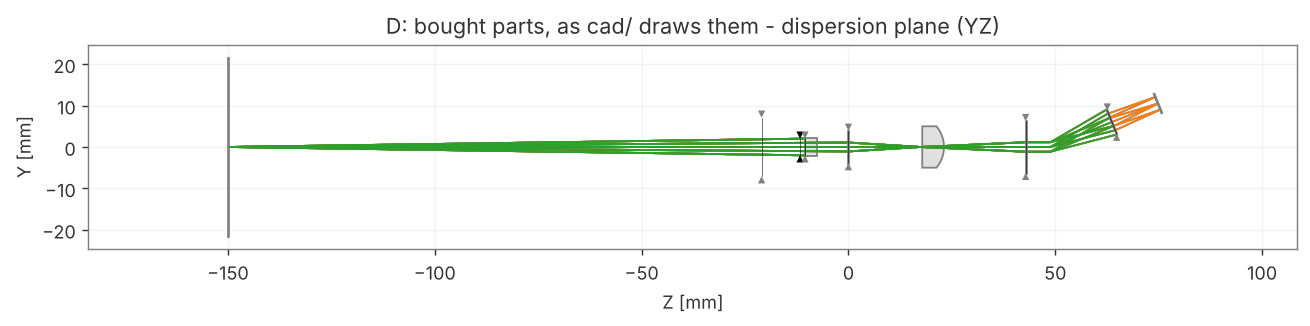
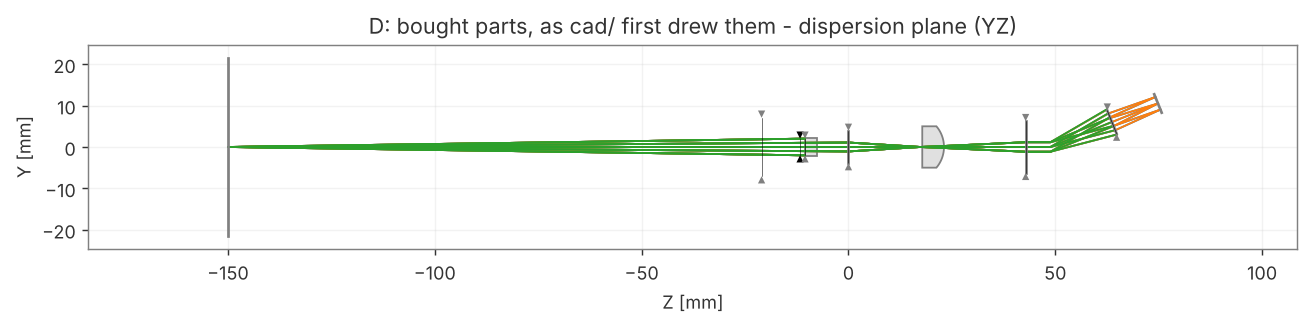
Say that cad/ builds config E now
PR #42 fitted the head to layout E, so D is how cad/ first drew the bought parts. The parts list and the model's labels now say so, and the parts list points at cad/optics_as_built.txt for the head as drawn.

Changed region(s): [[0.2748, 0.0307, 0.7939, 0.1227]]

diff --git a/optics/spectrograph_model.py b/optics/spectrograph_model.py
@@ -19,9 +19,10 @@ Configs A to C are the design study. D and E use the parts that were bought,
 where the vendor publishes enough to model them: the Edmund #49-840 field lens
 as real N-BK7 surfaces, the 3 mm GG-495 filter as a glass plate, the printed
 stop and the 20 x 20 mm scan mirror as apertures, and the CIL161's 15.6 mm focal
-length. D places them as cad/ draws them; E flips the field lens and moves the
-stop, the two changes the trace argues for. For D and E the script also traces
-the slit image width, the band that lands on the sensor and the spot sizes.
+length. D places them as cad/ first drew them; E flips the field lens and moves
+the stop, the two changes the trace argues for, and is what cad/ builds now. For
+D and E the script also traces the slit image width, the band that lands on the
+sensor and the spot sizes.
 
 Conventions: z is the optical axis, y is the dispersion direction, x is along
 the slit (the spatial / scan-line direction). Units are mm; wavelengths in um.
@@ -334,14 +335,15 @@ CONFIGS = [
     # #49-840 field lens (N-BK7, R 7.75, CT 5.25) behind 0.38 mm blades, LN016
     # collimator (12.5 mm aperture) focused on the slit, CIL122 camera lens.
     # Stop and lens positions are cad/ estimates until the lenses are measured.
-    Bought("D: bought parts, as cad/ draws them", f_cam=12.0, d_cam=6.0, f_field=15.0,
+    Bought("D: bought parts, as cad/ first drew them", f_cam=12.0, d_cam=6.0, f_field=15.0,
            coll_to_grating=6.0, grating_to_cam=16.03, f_obj=15.6, fno_obj=3.9, d_coll=12.5,
            field_r=7.75, field_ct=5.25, field_flat_first=True, field_gap=0.43, refocus=True,
            stop_ahead=11.7, stop_t=1.2, d_obj=7.8, filter_t=3.0, filter_ahead=10.5,
            mirror_ahead=21.0, mirror_w=20.0),
     # D with two changes: the field lens turned round (convex face toward the
     # slit), and the stop moved from the front of the cap to a 0.6 mm washer on the
-    # lens's front face, with the filter in front of it.
+    # lens's front face, with the filter in front of it. cad/ builds this one:
+    # cad/rig/optics_link.py reads its stations from here by the tag "E".
     Bought("E: D with the field lens flipped and the stop on the lens", f_cam=12.0, d_cam=6.0,
            f_field=15.0, coll_to_grating=6.0, grating_to_cam=16.03, f_obj=15.6, fno_obj=3.9,
            d_coll=12.5, field_r=7.75, field_ct=5.25, field_flat_first=False, field_gap=0.43,

diff --git a/docs/parts_list_and_design.md b/docs/parts_list_and_design.md
@@ -1,6 +1,6 @@
 # Line-scan hyperspectral splatting: parts list and first-order design
 
-Status: parts list updated to what was bought, 2026-10-08. Nothing has arrived yet; the Amazon order and the long-pass filter are due Friday, October 9. Model: `optics/spectrograph_model.py` (Optiland 0.6.2): configs A to C are the design study with ideal lenses, and D and E use the bought parts. Results: `optics/model_output/results.txt` and the layout PNGs. Diagram: `docs/optical_train_v2.svg`.
+Status: parts list updated to what was bought, 2026-10-08. Nothing has arrived yet; the Amazon order and the long-pass filter are due Friday, October 9. Model: `optics/spectrograph_model.py` (Optiland 0.6.2): configs A to C are the design study with ideal lenses, and D and E use the bought parts; `cad/` builds E. Results: `optics/model_output/results.txt` and the layout PNGs. Diagram: `docs/optical_train_v2.svg`.
 
 Section 3 is the bill of materials for this build. Each row names the exact part that was bought or is already owned, with its part number or Amazon ASIN, what it cost and where it stands. The notes keep the earlier generic picks where they help someone building from scratch. Section 6 lists the orders with each listing's full name.
 
@@ -52,9 +52,9 @@ Scene coverage at 150 mm: the line is 42 mm long and 0.42 mm thick. About 150 li
 
 ### With the parts that were bought (configs D and E)
 
-Configs D and E trace the bought parts wherever the vendor publishes enough to model them. The Edmund field lens is real N-BK7 surfaces (R 7.75 mm, 5.25 mm thick). The GG-495 is a 3 mm glass plate, and the printed stop and the 20 × 20 mm mirror are apertures. The objective uses the CIL161's published 15.6 mm focal length. The M12 lenses are still ideal, since Commonlands and Arducam don't publish prescriptions. Both configs use the spacings `cad/` builds, with the grating 6 mm behind the collimator and the camera lens 16 mm behind the grating, and the collimator focused on the slit as the field lens shows it. D puts every part where `cad/` draws it today. E turns the field lens round and moves the stop onto the lens.
+Configs D and E trace the bought parts wherever the vendor publishes enough to model them. The Edmund field lens is real N-BK7 surfaces (R 7.75 mm, 5.25 mm thick). The GG-495 is a 3 mm glass plate, and the printed stop and the 20 × 20 mm mirror are apertures. The objective uses the CIL161's published 15.6 mm focal length. The M12 lenses are still ideal, since Commonlands and Arducam don't publish prescriptions. Both configs use the spacings `cad/` builds, with the grating 6 mm behind the collimator and the camera lens 16 mm behind the grating, and the collimator focused on the slit as the field lens shows it. D puts every part where `cad/` first drew it. E turns the field lens round and moves the stop onto the lens, and it is what `cad/` builds now.
 
-| Traced, ideal M12 lenses | D: as `cad/` draws it | E: field lens flipped, stop on the lens |
+| Traced, ideal M12 lenses | D: as `cad/` first drew it | E: field lens flipped, stop on the lens, as `cad/` builds it |
 |---|---|---|
 | Field lens faces the slit with its | flat side | curved side |
 | Slit as the collimator sees it | 1.35× as big, 0.42 mm further back | 1.03× as big, 1.76 mm further back |
@@ -78,7 +78,7 @@ What the trace decides, part by part:
 - **Spot sizes.** With ideal M12 lenses the only aberrations left come from the field lens. Spots are about 1 µm RMS at the line center and about 5 µm at the line ends, well under the 27 µm slit image. Real M12 lens blur isn't published and will likely dominate.
 - **Scan mirror.** A 20 × 20 mm piece clears the beam with room to spare: taking the mirror out of the model changes no number.
 
-`cad/` draws config D today. The changes for E (the slit block's lens seat, the collimator 1.8 mm further back with everything behind it, and the stop washer on the lens face) go to the CAD pass that follows Friday's measurements.
+`cad/` has built config E since October 9. The slit block seats the field lens curved side toward the blades, the collimator sits 26.76 mm behind the slit with everything behind it moved back to match, and a 0.6 mm washer with a 4 mm hole sits on the objective's front face. [`cad/optics_as_built.txt`](../cad/optics_as_built.txt) traces the head as drawn. There the washer sits 8.5 mm ahead of the objective's principal plane instead of E's 8.1 mm, which still gives 4.1 nm and 52% of the center's light at the line ends at 750 nm.
 
 ## 3. Parts list
 
@@ -93,7 +93,7 @@ Statuses as of 2026-10-08: **ordered** (paid, not arrived), **owned** (Ryan's ow
 | 3 | Objective, 16 mm f/2 | Commonlands **CIL161-F2.0-M12ANIR**, [IR Corrected 16mm M12 Lens, F/2.0, Without Filter](https://commonlands.com/products/ir-corrected-16mm-m12-lens-cil161) | $39.00 | ordered | Swapped from -M12A650 the same way. Commonlands lists its focal length as 15.6 mm. The 4 mm printed stop makes it f/3.9 (section 2). Avoid Arducam LN001, which has a 650 nm IR-cut filter. |
 | 4 | Collimator, 25 mm f/2 | Arducam **LN016** (lens M2025ZH01), 1/2" format, no IR filter, from [Arducam's store](https://www.arducam.com/m2025zh01-m12-mount-25mm-focal-length-camera-lens-mtv2520b-for-raspberry-pi-camera.html) | $17.99 | ordered, express | 17 × 21 mm, 12.5 mm aperture. Back focus isn't published, and a sibling Arducam 25 mm lens lists 5.2 mm, so measure it. |
 | 5 | M12 holders ×2 (objective, collimator) | uxcell 10-pack, 20 mm screw spacing, Amazon [B00R1J42T8](https://www.amazon.com/dp/B00R1J42T8) | $7.79 | ordered, due Oct 9 | Plastic and 14 mm tall: cut two down to the lens thread + 1 mm, as in step 1 of the [Assembly](../cad/README.md#assembly). From scratch: UCTRONICS U0756M10 metal holders. |
-| 6 | Field lens, f = 15 mm | Edmund Optics **#49-840**, [12.7 mm dia. × 15.0 mm FL, uncoated plano-convex](https://www.edmundoptics.com/p/127mm-dia-x-150mm-fl-uncoated-plano-convex-lens/10312/), N-BK7, CT 5.25 mm | $32.75 + $9.99 ground shipping | ordered, 1–7 business days | Turn its curved side toward the slit (section 2). Until the slit block is redrawn, `cad/` seats it flat side toward the blades. |
+| 6 | Field lens, f = 15 mm | Edmund Optics **#49-840**, [12.7 mm dia. × 15.0 mm FL, uncoated plano-convex](https://www.edmundoptics.com/p/127mm-dia-x-150mm-fl-uncoated-plano-convex-lens/10312/), N-BK7, CT 5.25 mm | $32.75 + $9.99 ground shipping | ordered, 1–7 business days | Turn its curved side toward the slit (section 2). The slit block in `cad/` holds it that way. |
 | 7 | Slit, 50 µm | 9 mm snap-off blades, 25-pack, Amazon [B0FKTN8WJZ](https://www.amazon.com/dp/B0FKTN8WJZ), set apart with the 0.05 mm leaf of a Spurtar 32-blade feeler gauge set, Amazon [B081SYZ1YV](https://www.amazon.com/dp/B081SYZ1YV) | $4.49 + $4.97 | ordered, due Oct 9 | Two 20 mm pieces of blade. Set the gap with the leaf, glue the blades, and pull the leaf out once the glue sets. The blade thickness isn't listed and `cad/` assumes 0.38 mm, so measure one. The 0.04 mm leaf gives a 40 µm slit. Single-edge razor blades don't fit the printed head. The lab-grade option is in row 32. |
 | 8 | Grating, 500 l/mm | Ryan's own diffraction gratings | — | unconfirmed | Pitch not confirmed. If none is 500 l/mm, buy Rainbow Symphony 500 l/mm slides, Amazon [B00PBFTQMM](https://www.amazon.com/dp/B00PBFTQMM), $15.60 ✓. Other 500 l/mm film: Edmund #54-509 ($19.75 ✓) or a [Bartovation sheet](https://bartovation.com/product/other-lab-supplies/diffraction-grating-sheets/500-lines-mm-linear-diffraction-grating-sheet/) ($12.38 ✓). Section 2 says what other pitches do. |
 | 9 | Long-pass filter, 495 nm | Edmund Optics **#54-652**, [GG-495 12.5 mm dia. longpass filter](https://www.edmundoptics.com/p/gg-495-125mm-dia-longpass-filter/11321/), SCHOTT GG495, 3 mm | $37.00 | ordered, due Oct 9 | Blocks 2nd-order light; its soft edge passes 67% at 500 nm and 88% at 520 nm (section 2). It sits in the head's filter cap. For a bench build without the head, any 530 nm screw-in filter does the same job. The lab-grade option is in row 32. |
